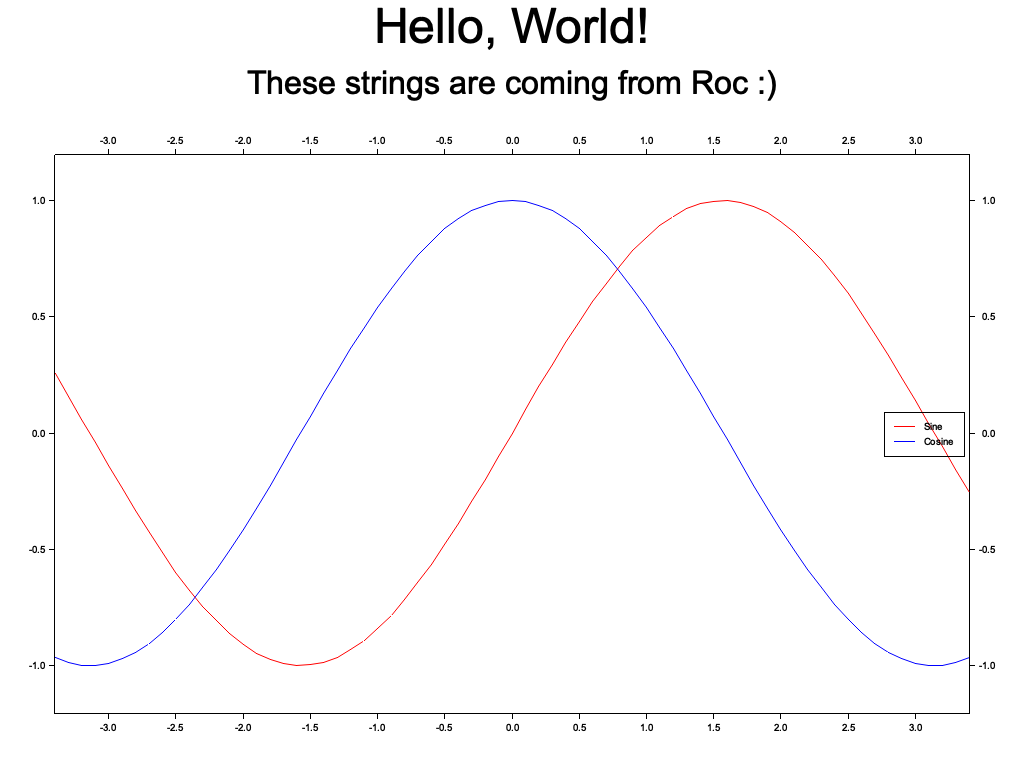
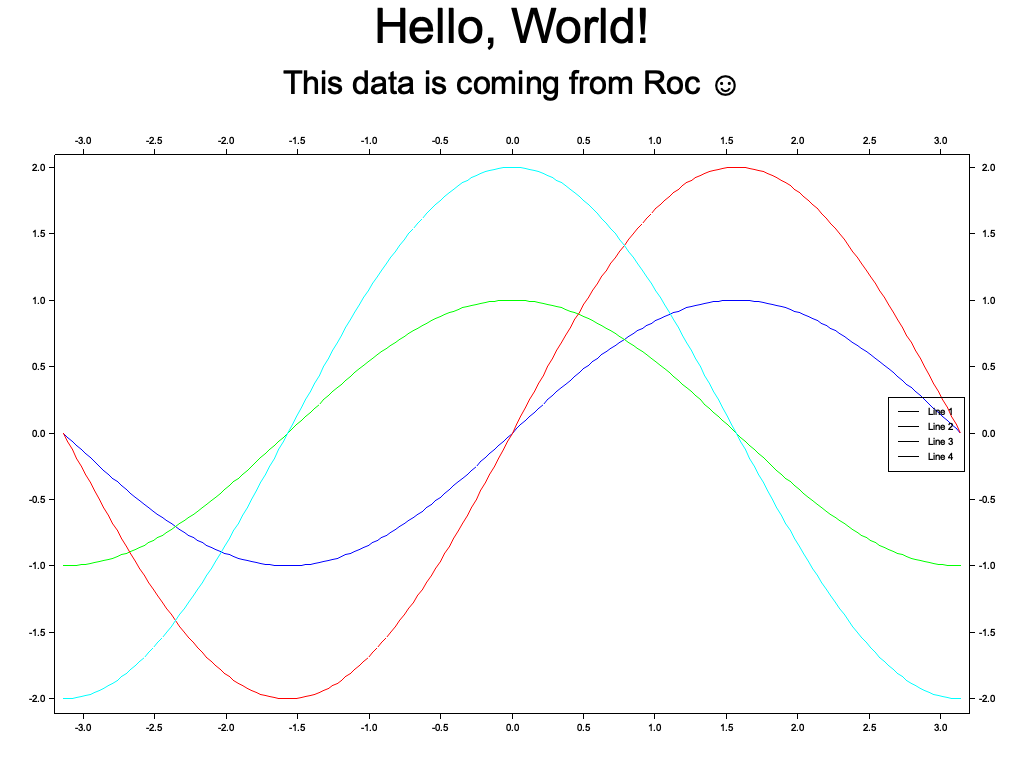
Dynamize line count

diff --git a/platform/src/plot.rs b/platform/src/plot.rs
@@ -42,14 +42,11 @@ fn plot_with<Backend: DrawingBackend>(
     config: &Config,
 ) -> Result<(), DrawingAreaErrorKind<Backend::ErrorType>> {
     let area = construct_area(backend, config)?;
-    dbg!(config);
-    let xy1: Vec<(i32, i32)> = dbg!(config.points1.iter().map(|x| *x).collect());
-    let xy2: Vec<(i32, i32)> = dbg!(config.points2.iter().map(|x| *x).collect());
     let mut cc = ChartBuilder::on(&area)
         .margin(5)
         .set_all_label_area_size(50)
         .caption(config.subtitle.as_str(), ("sans-serif", 40))
-        .build_cartesian_2d(-3i32..3i32, -3i32..3i32)?;
+        .build_cartesian_2d(-3.2f64..3.2f64, -2.1f64..2.1f64)?;
     cc.configure_mesh()
         .x_labels(20)
         .y_labels(10)
@@ -57,12 +54,14 @@ fn plot_with<Backend: DrawingBackend>(
         .x_label_formatter(&|v| format!("{:.1}", v))
         .y_label_formatter(&|v| format!("{:.1}", v))
         .draw()?;
-    cc.draw_series(LineSeries::new(xy1, &RED))?
-        .label("Line 1")
-        .legend(|(x, y)| PathElement::new(vec![(x, y), (x + 20, y)], &RED));
-    cc.draw_series(LineSeries::new(xy2, &BLUE))?
-        .label("Line 2")
-        .legend(|(x, y)| PathElement::new(vec![(x, y), (x + 20, y)], &BLUE));
+    let colors = vec![&BLUE, &GREEN, &RED, &CYAN];
+    for (i, line) in config.lines.iter().enumerate() {
+        let v: Vec<(f64, f64)> = line.iter().map(|x| *x).collect();
+        cc.draw_series(LineSeries::new(v, colors[i]))?
+            .label(format!("Line {:?}", i + 1))
+            // TODO: Use the same color here (instead of black) after figuring out how to borrow it.
+            .legend(|(x, y)| PathElement::new(vec![(x, y), (x + 20, y)], &BLACK));
+    }
     cc.configure_series_labels().border_style(&BLACK).draw()?;
     area.present().unwrap_or_else(|_| {
         panic!(

diff --git a/platform/src/config.rs b/platform/src/config.rs
@@ -3,9 +3,8 @@ use roc_std::{RocList, RocStr};
 #[derive(Default, Debug)]
 #[repr(C)]
 pub struct Config {
+    pub lines: RocList<RocList<(f64, f64)>>,
     pub outputFilePath: RocStr,
-    pub points1: RocList<(i32, i32)>,
-    pub points2: RocList<(i32, i32)>,
     pub subtitle: RocStr,
     pub title: RocStr,
     pub height: u32,
